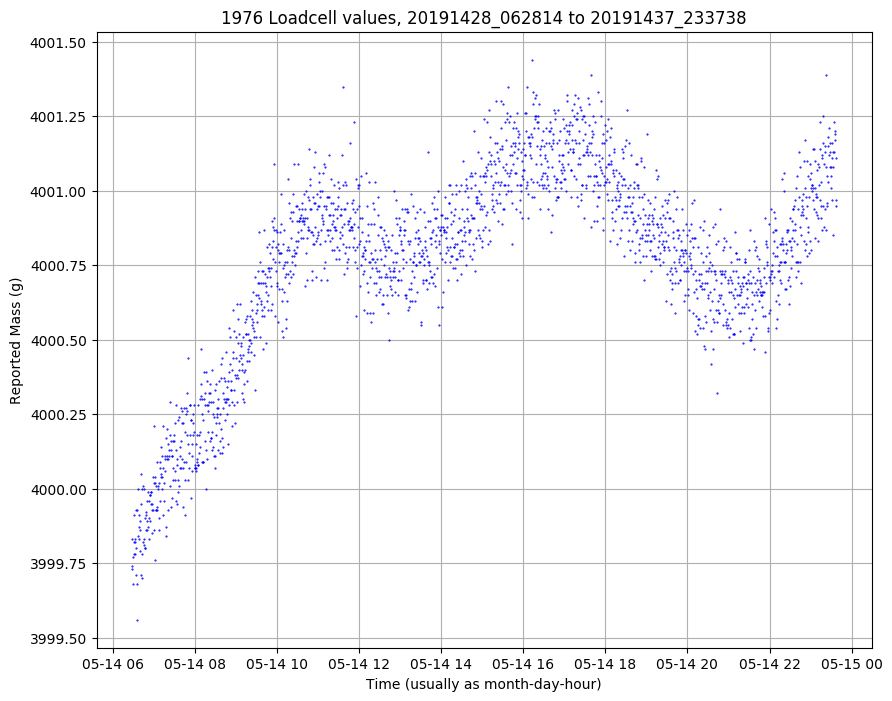
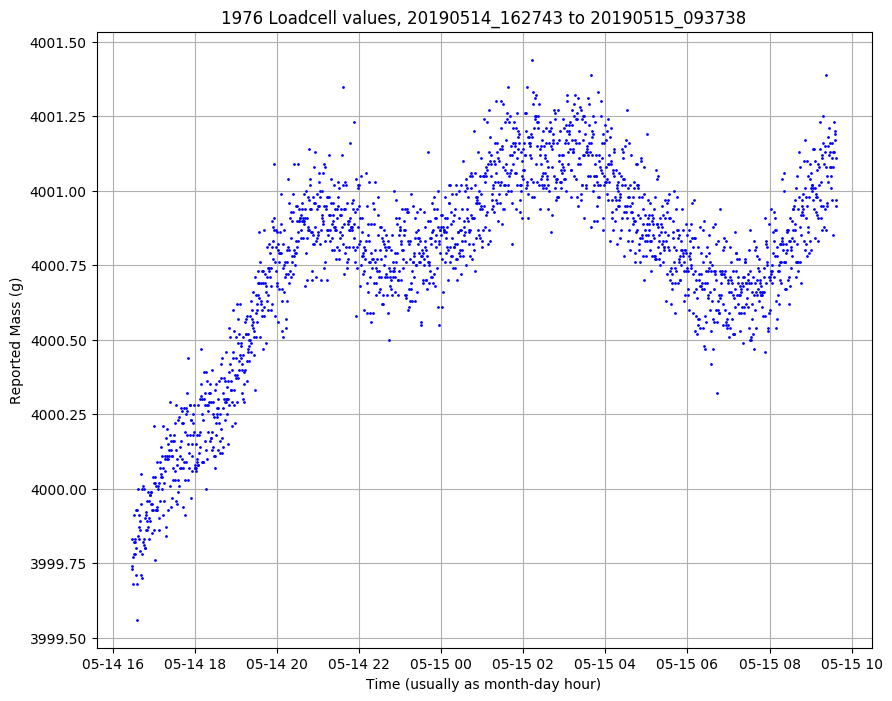
Fixes to freaking time/date stamps - I think they're finally matching on x axis and title.. Updated example with corrected values

diff --git a/loadcellplotter.py b/loadcellplotter.py
@@ -8,25 +8,24 @@ import io
 import datetime
 from dateutil import tz
 from tzlocal import get_localzone
+import time
 
 tzl = get_localzone().zone
 
 def loadcellplot():
     df = pd.read_csv('loadcell.xls',sep='\t')
     df.columns=["epoch","mass"]
-    df['timestamp'] = pd.to_datetime(list(df['epoch']),unit='s')
-    df['date'] = pd.to_datetime(df['epoch'],unit='s',utc=True)
+    df['date'] = pd.to_datetime(df['epoch'],unit='s')
     df.set_index(df['date'],inplace=True)
     df = df.tz_localize(tz=tzl)
     mdates.rcParams['timezone'] = tzl
-    lastone = df.iloc[-1].tolist()
-    lasttime = lastone[2].strftime('%Y%d%M_%H%M%S')
-    firstone = df.iloc[1].tolist()
-    firsttime = firstone[2].strftime('%Y%d%M_%H%M%S')
+    lastone = df.epoch[-1]
+    lasttime = time.strftime('%Y%m%d_%H%M%S',time.localtime(lastone))
+    firstone = df.epoch[0]
+    firsttime = time.strftime('%Y%m%d_%H%M%S',time.localtime(firstone))
     imname = 'loadcell%s.png' % (lasttime)
     x = df['date']
     y = df['mass']
-    plt.close('all')
     ms = 2
     nrow = df.shape[0]
     if nrow > 1000:

diff --git a/loadcell.py b/loadcell.py
@@ -2,9 +2,11 @@
 # sampler for a pi hx711/loadcell combination
 # ross lazarus me fecit May 2019
 # based on the hx711py example.py code.
+# added rename of old log file - I just wrote 19 hours over. Sad face.
 
 import time
 import sys
+import os
 
 EMULATE_HX711=False
 logdat = True
@@ -64,7 +66,11 @@ print("Tare done! Ready now...")
 # to use both channels, you'll need to tare them both
 #hx.tare_A()
 #hx.tare_B()
+
 if logdat:
+    if os.path.isfile(logfname):
+        oldlogsave = 'old_%s' % logfname
+        os.rename(logfname,oldlogsave)
     lout = open(logfname,'w')
     started = time.time()
 

diff --git a/README.md b/README.md
@@ -1,5 +1,5 @@
 # piloadcell
-Python code for raspberry pi, load cell and hx711 converter
+Python code for plotting weight over time using a raspberry pi zero w, 10kg load cell and hx711 converter
 
 Includes code to generate tab delimited averaged readings sampled every (e.g.) minute so we can evaluate drift and figure out
 how to compensate for temperature. Also includes a flask server to get plots of current accumulated data from the output
@@ -21,7 +21,7 @@ Being a data scientist means I want to know how badly they suck...so I grabbed s
 knowing I was in for a rough ride. Turns out they're not that bad...
 
 **Requirements:**
-Built for python3.5 on raspbian 9 (Debian Stretch).
+Built for python3.5 on raspbian 9 (Debian Stretch). Developed on a pi zero w - best $20 I ever spent.
 
 Requires https://github.com/tatobari/hx711py and the current raspbian versions of flask, pandas, numpy, matplotlib
 dateutil and tzlocal installed - e.g. sudo apt install python3-pandas. Code may work under other versions of these
@@ -39,4 +39,4 @@ improve stability - assertion not empirically tested or measured.
 
 * Getting matplotlib to plot a pandas UTC timestamp *as local time* on the x axis was a frustrating exercise - at least partly because
 I'm using the raspbian versions of everything to make the project easier to test so they are not the latest and not always quite the
-way the current documentation suggests. Whatever, finally figured it out....
+way the current documentation suggests. Whatever, finally figured it out....although it's probably much fuglier than needed.
